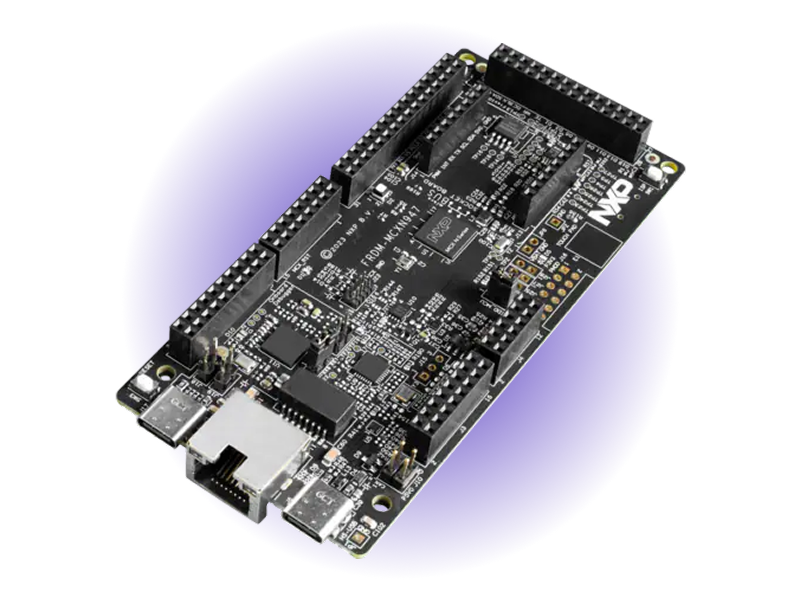
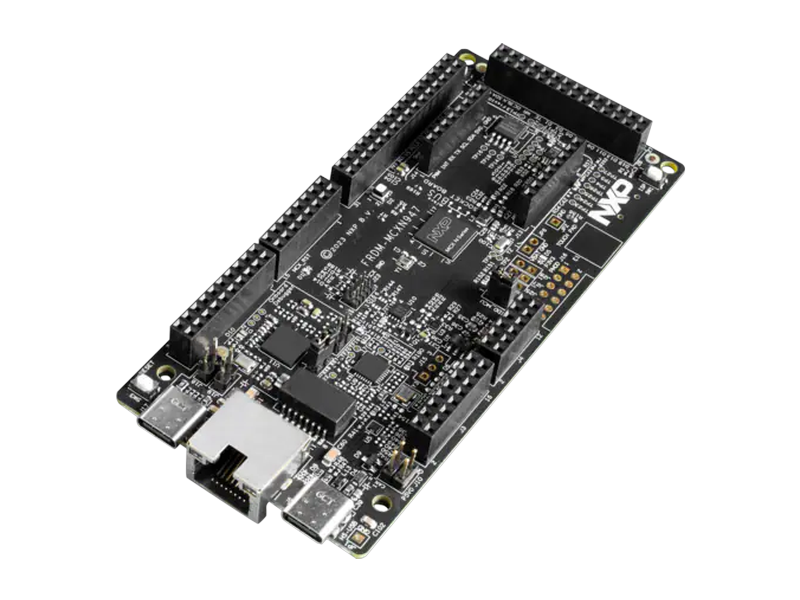
Remove the baked-in gradient from the target images (DES-274)
Target images shipped with a gradient baked into the raster, so adding a new
target meant recreating that gradient inside the image before uploading it. All
20 target images are now clean 800x600 transparent PNGs - drop in a cutout and
it matches. If we want the gradient back, it belongs in CSS on the hero
component, applied once, instead of in every asset.

Also improved a couple of images along the way:

- Jetson AGX Orin and Orin NX were still gradient-baked JPEGs, and their
  solutions heroes were wrong - AGX Orin pointed at a file that doesn't exist,
  Orin NX reused the Orin Nano photo. Both now use the new transparent art.
- Removed the superseded .jpeg files and two unreferenced NVIDIA images.

While confirming the images resolved, fixed the remaining dangling references -
these don't fail the build, they just render broken:

- Three AGX Orin use-case images were never committed; repointed at existing art.
- Four ogImage paths had drifted: iq9.jpeg -> iq-9.jpeg, nxp-imx8mp.jpg ->
  nxp-imx8p.jpg, and both Raspberry Pi pages still referenced raspberry-pi.jpg,
  deleted back in 1f70b8b3.

Every /img/ reference across docs-hardware and the solutions data now resolves.

Changed region(s): [[0.4688, 0.39, 0.8125, 0.93], [0.1875, 0.06, 0.5625, 0.6], [0.3125, 0.84, 0.375, 0.87]]

diff --git a/src/src/data/solutions/nvidia/jetson-agx-orin.ts b/src/src/data/solutions/nvidia/jetson-agx-orin.ts
@@ -6,7 +6,7 @@ export const data: SolutionData = {
     'Production-ready NVIDIA Jetson AGX Orin deployment from day 1 with Peridio Fleet + Avocado OS. Enterprise Linux, secure OTA, and fleet management for the most powerful edge AI platform.',
   keywords:
     'nvidia jetson agx orin, device management, ota updates, yocto, embedded linux, industrial ai, robotics, fleet management, autonomous systems, edge computing',
-  ogImage: '/img/nvidia-jetson-agx-orin.jpg',
+  ogImage: '/img/nvidia-jetson-orin.jpg',
   canonicalUrl: 'https://docs.peridio.com/solutions/nvidia/jetson-agx-orin',
 
   hero: {
@@ -27,8 +27,8 @@ export const data: SolutionData = {
       text: 'Request Demo',
       link: 'https://peridio.com/book-a-meeting',
     },
-    image: '/img/jetson-agx-orin.png',
-    imageAlt: 'NVIDIA Jetson AGX Orin development kit',
+    image: '/img/hardware/nvidia/agx-orin.png',
+    imageAlt: 'NVIDIA Jetson AGX Orin module',
   },
 
   valueProposition: {
@@ -76,21 +76,21 @@ export const data: SolutionData = {
       title: 'Autonomous Vehicles',
       description:
         '275 TOPS powers full self-driving stacks with real-time sensor fusion, path planning, and decision making for Level 4+ autonomy.',
-      image: '/img/use-cases/autonomous-vehicles.png',
+      image: '/img/use-cases/factory-quality-inspection.png',
       imageAlt: 'Autonomous Vehicles',
     },
     {
       title: 'Surgical Robotics',
       description:
         'Ultra-low latency AI inference for precision surgical procedures. Real-time computer vision and haptic feedback systems.',
-      image: '/img/use-cases/surgical-robotics.png',
+      image: '/img/use-cases/ml-inference-server.png',
       imageAlt: 'Surgical Robotics',
     },
     {
       title: 'Smart City Infrastructure',
       description:
         'Process hundreds of camera feeds for traffic optimization, crowd analysis, and emergency response with enterprise reliability.',
-      image: '/img/use-cases/smart-city.png',
+      image: '/img/use-cases/traffic-flow-optimization.png',
       imageAlt: 'Smart City Infrastructure',
     },
   ],

diff --git a/src/src/data/solutions/raspberry-pi/raspberry-pi-4-model-b.ts b/src/src/data/solutions/raspberry-pi/raspberry-pi-4-model-b.ts
@@ -6,7 +6,7 @@ export const data: SolutionData = {
     'Deploy Raspberry Pi 4 Model B devices in production with Peridio Fleet + Avocado OS. Yocto-based, secure OTA updates, enterprise support for IoT and edge computing.',
   keywords:
     'raspberry pi 4 model b, device management, ota updates, yocto, embedded linux, iot, edge computing, fleet management',
-  ogImage: '/img/raspberry-pi.jpg',
+  ogImage: '/img/Raspberrypi4.png',
   canonicalUrl: 'https://docs.peridio.com/solutions/raspberry-pi/raspberry-pi',
 
   hero: {

diff --git a/src/src/data/solutions/raspberry-pi/raspberry-pi-5.ts b/src/src/data/solutions/raspberry-pi/raspberry-pi-5.ts
@@ -6,7 +6,7 @@ export const data: SolutionData = {
     'Deploy Raspberry Pi 5 devices in production with Peridio Fleet + Avocado OS. Yocto-based, secure OTA updates, enterprise support for IoT and edge computing.',
   keywords:
     'raspberry pi 5, device management, ota updates, yocto, embedded linux, iot, edge computing, fleet management',
-  ogImage: '/img/raspberry-pi.jpg',
+  ogImage: '/img/raspberrypi-5.jpg',
   canonicalUrl: 'https://docs.peridio.com/solutions/raspberry-pi/raspberry-pi',
 
   hero: {

diff --git a/src/src/data/solutions/qualcomm/iq9.ts b/src/src/data/solutions/qualcomm/iq9.ts
@@ -6,7 +6,7 @@ export const data: SolutionData = {
     'Deploy Qualcomm IQ9 (QCS8550) flagship edge AI platform with 45 TOPS performance. Production-ready with Peridio Fleet + Avocado OS for automotive and premium applications.',
   keywords:
     'qualcomm iq9, qcs8550, flagship edge ai, 45 tops, automotive ai, premium edge computing, device management, ota updates',
-  ogImage: '/img/iq9.jpeg',
+  ogImage: '/img/iq-9.jpeg',
   canonicalUrl: 'https://docs.peridio.com/solutions/qualcomm/iq9',
 
   hero: {

diff --git a/src/src/data/solutions/nxp/imx8mp.ts b/src/src/data/solutions/nxp/imx8mp.ts
@@ -6,7 +6,7 @@ export const data: SolutionData = {
     'Deploy NXP i.MX 8M Plus for industrial vision and edge AI. 2.3 TOPS NPU, dual cameras, real-time processing. Production-ready with Peridio Fleet + Avocado OS.',
   keywords:
     'nxp imx8mp, i.mx 8m plus, industrial vision, edge ai camera, npu, dual camera, real-time processing, device management',
-  ogImage: '/img/nxp-imx8mp.jpg',
+  ogImage: '/img/nxp-imx8p.jpg',
   canonicalUrl: 'https://docs.peridio.com/solutions/nxp/imx8mp',
 
   hero: {

diff --git a/src/src/data/solutions/nvidia/jetson-orin-nx.ts b/src/src/data/solutions/nvidia/jetson-orin-nx.ts
@@ -27,8 +27,8 @@ export const data: SolutionData = {
       text: 'Request Demo',
       link: 'https://peridio.com/book-a-meeting',
     },
-    image: '/img/jetson-nano.png',
-    imageAlt: 'NVIDIA Jetson Orin NX development kit',
+    image: '/img/hardware/nvidia/orin-nx.png',
+    imageAlt: 'NVIDIA Jetson Orin NX module',
   },
 
   valueProposition: {
